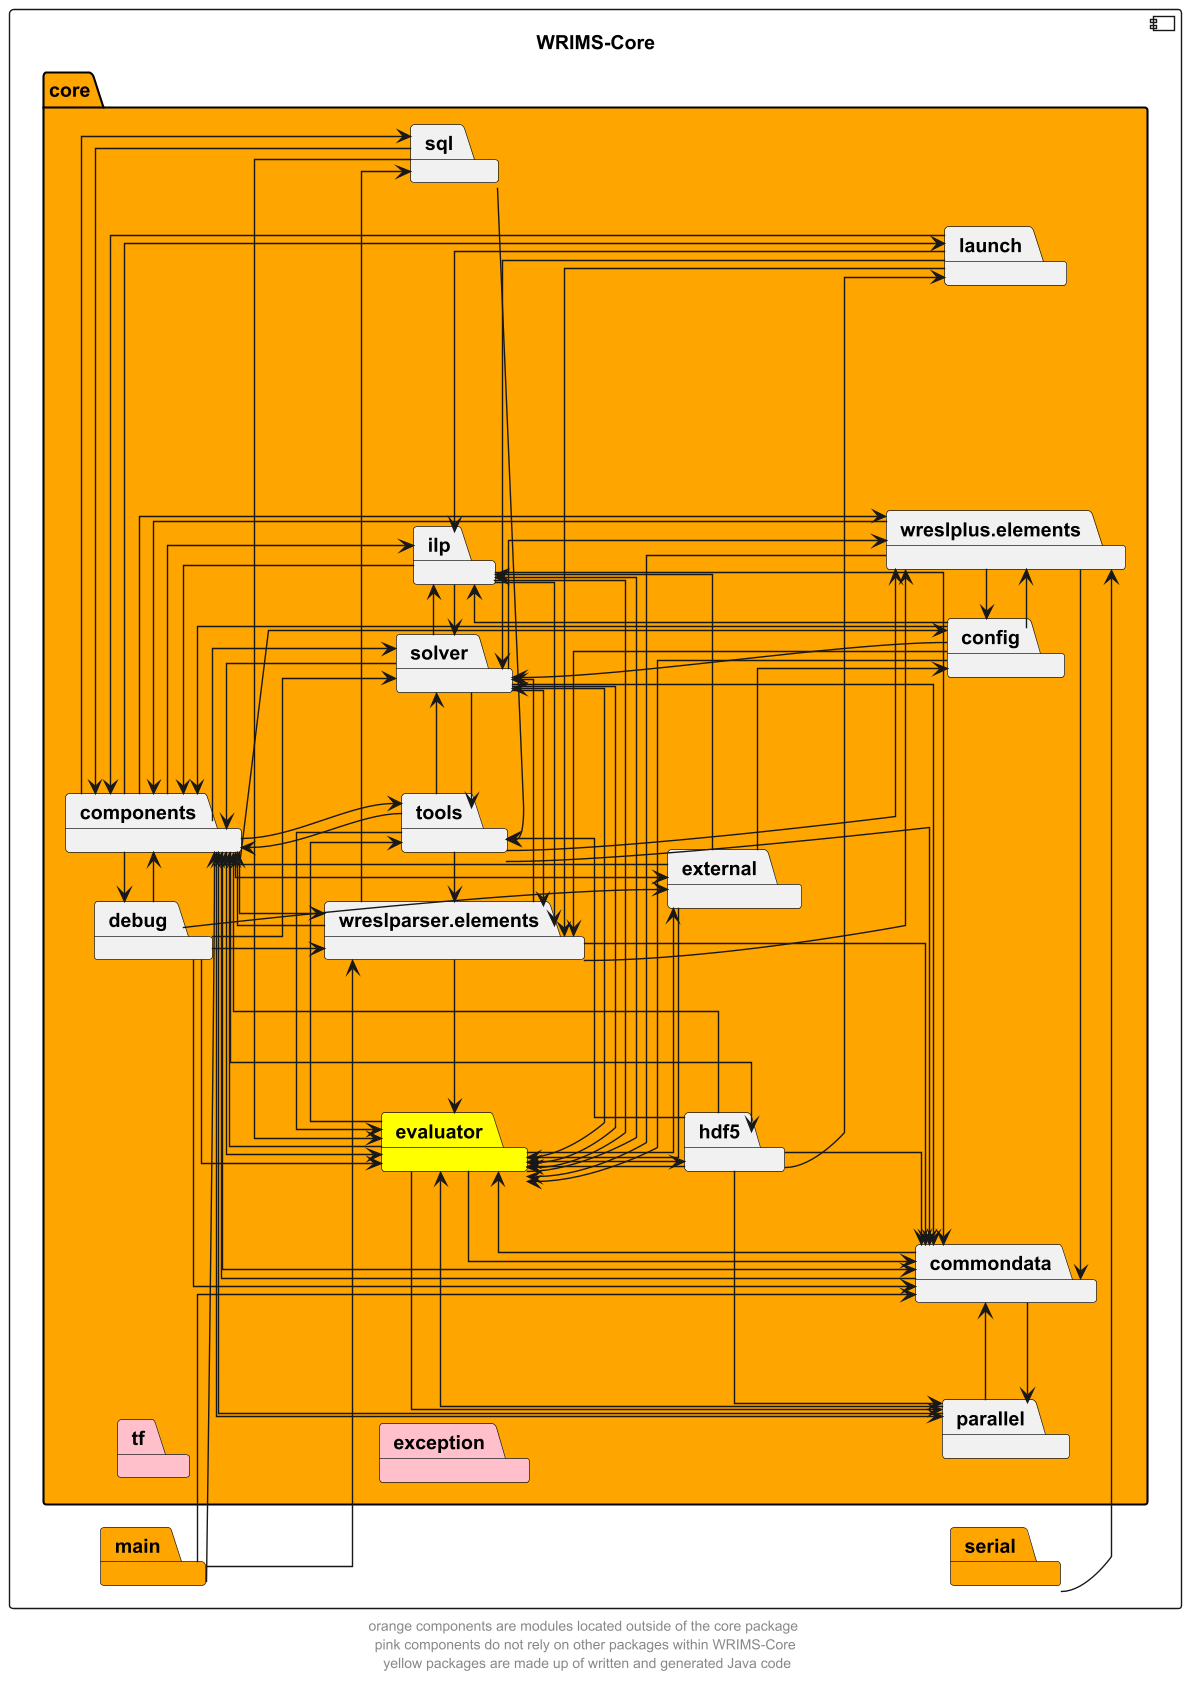
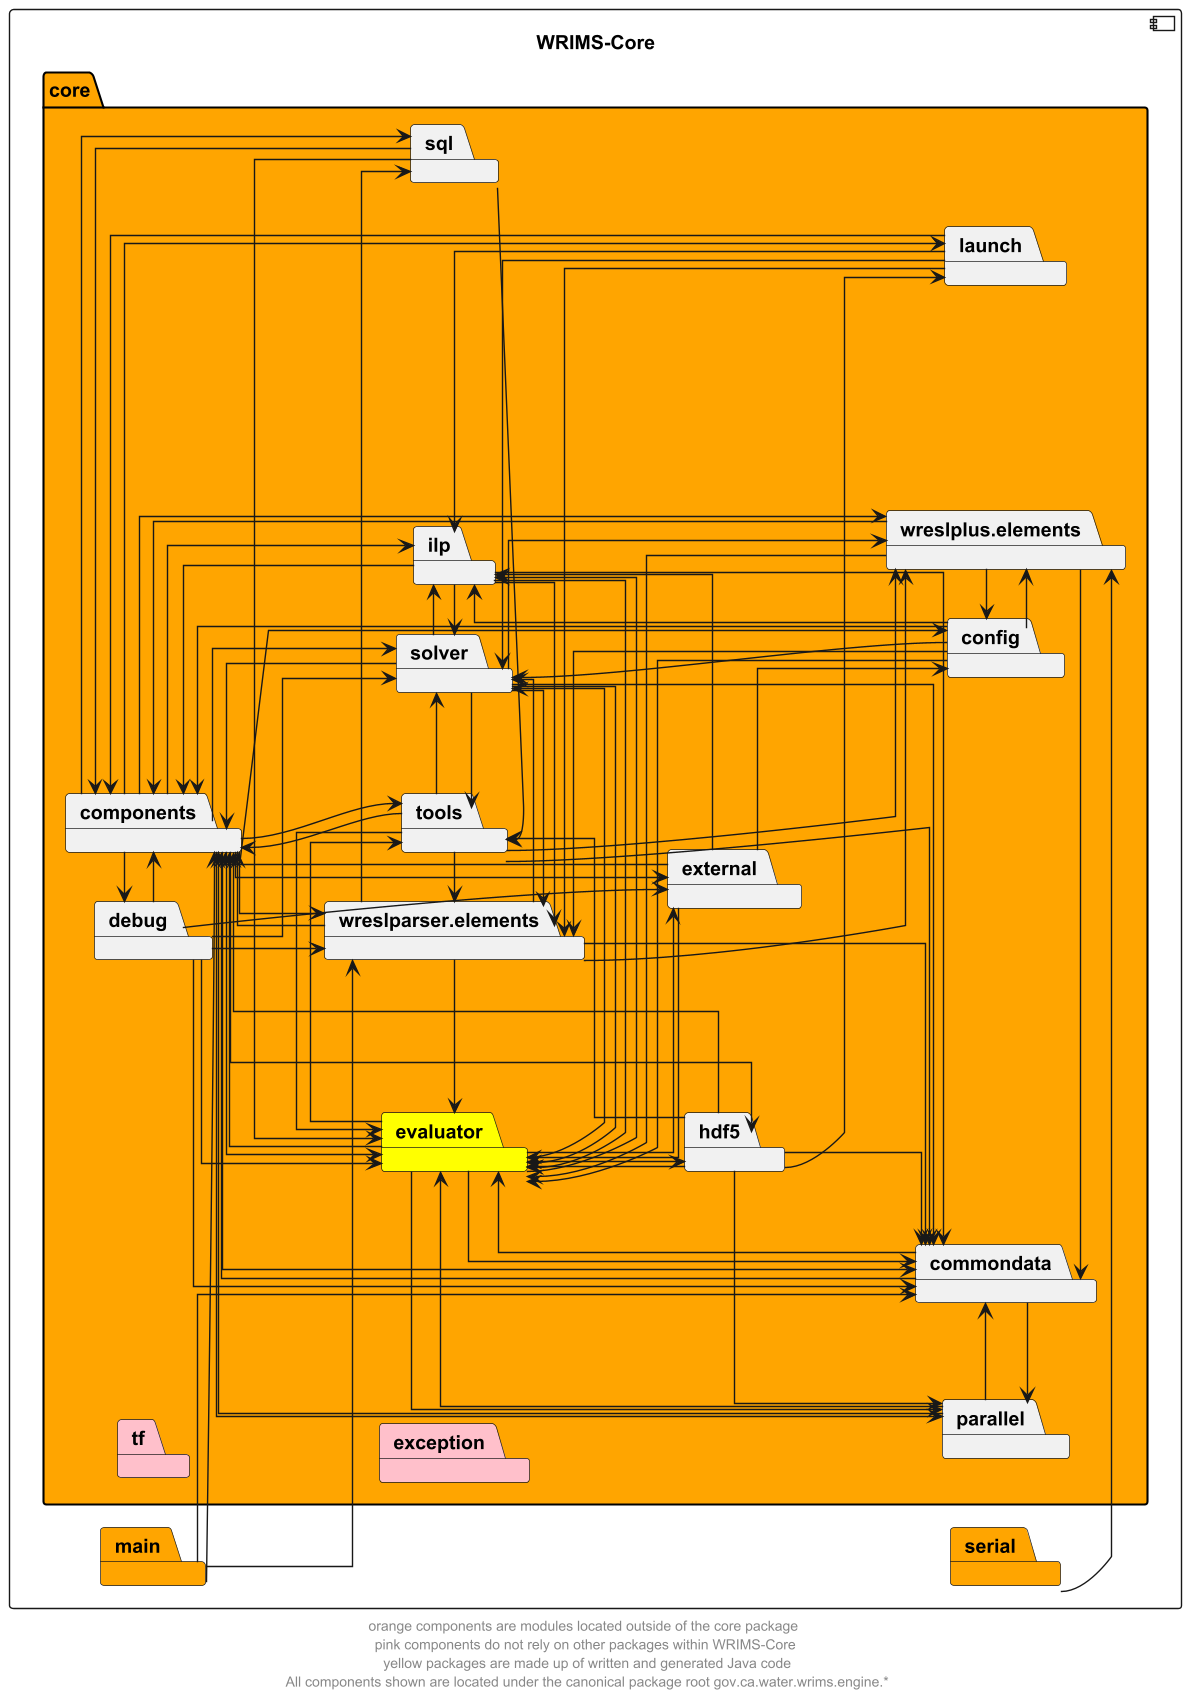
Updated facade comments. Updated diagram package description. Updated README with facade reasoning.

diff --git a/wrims-core/src/main/java/wrimsv2/external/LoadDll.java b/wrims-core/src/main/java/wrimsv2/external/LoadDll.java
@@ -1,9 +1,12 @@
 package wrimsv2.external;
 
 
-@Deprecated
+/**
+ * @deprecated Retained for compatibility with CalLite code
+ * Facade class referring to the implementation within the `gov.ca.water.wrims.engine` package
+ */
+@Deprecated(since = "2025_11_21")
 public class LoadDll extends gov.ca.water.wrims.engine.core.external.LoadDll {
-    // Deprecated for move to new package. Retained old package location for compatibility with CalLight code
     public LoadDll(String s) {
         super(s);
     }

diff --git a/wrims-core/src/main/java/wrimsv2/external/ExternalFunction.java b/wrims-core/src/main/java/wrimsv2/external/ExternalFunction.java
@@ -1,7 +1,10 @@
 package wrimsv2.external;
 
 
-@Deprecated
+/**
+ * @deprecated Retained for compatibility with CalLite code
+ * Facade class referring to the implementation within the `gov.ca.water.wrims.engine` package
+ */
+@Deprecated(since = "2025_11_21")
 public abstract class ExternalFunction extends gov.ca.water.wrims.engine.core.external.ExternalFunction {
-	// Deprecated for move to new package. Retained old package location for compatibility with CalLight code
 }

diff --git a/wrims-core/src/main/java/wrimsv2/evaluator/TimeOperation.java b/wrims-core/src/main/java/wrimsv2/evaluator/TimeOperation.java
@@ -1,7 +1,10 @@
 package wrimsv2.evaluator;
 
 
-@Deprecated
+/**
+ * @deprecated Retained for compatibility with CalLite code
+ * Facade class referring to the implementation within the `gov.ca.water.wrims.engine` package
+ */
+@Deprecated(since = "2025_11_21")
 public class TimeOperation extends gov.ca.water.wrims.engine.core.evaluator.TimeOperation {
-	// Deprecated for move to new package. Retained old package location for compatibility with CalLight code
 }

diff --git a/wrims-core/src/main/java/wrimsv2/components/ControlData.java b/wrims-core/src/main/java/wrimsv2/components/ControlData.java
@@ -1,7 +1,10 @@
 package wrimsv2.components;
 
 
-@Deprecated
+/**
+ * @deprecated Retained for compatibility with CalLite code
+ * Facade class referring to the implementation within the `gov.ca.water.wrims.engine` package
+ */
+@Deprecated(since = "2025_11_21")
 public class ControlData extends gov.ca.water.wrims.engine.core.components.ControlData {
-	// Deprecated for move to new package. Retained old package location for compatibility with CalLight code
 }

diff --git a/wrims-core/src/main/java/wrimsv2/components/TimeUsage.java b/wrims-core/src/main/java/wrimsv2/components/TimeUsage.java
@@ -1,7 +1,10 @@
 package wrimsv2.components;
 
 
-@Deprecated
+/**
+ * @deprecated Retained for compatibility with CalLite code
+ * Facade class referring to the implementation within the `gov.ca.water.wrims.engine` package
+ */
+@Deprecated(since = "2025_11_21")
 public class TimeUsage extends gov.ca.water.wrims.engine.core.components.TimeUsage {
-	// Deprecated for move to new package. Retained old package location for compatibility with CalLight code
 }

diff --git a/wrims-core/src/main/java/wrimsv2/components/FilePaths.java b/wrims-core/src/main/java/wrimsv2/components/FilePaths.java
@@ -1,7 +1,10 @@
 package wrimsv2.components;
 
 
-@Deprecated
+/**
+ * @deprecated Retained for compatibility with CalLite code
+ * Facade class referring to the implementation within the `gov.ca.water.wrims.engine` package
+ */
+@Deprecated(since = "2025_11_21")
 public class FilePaths extends gov.ca.water.wrims.engine.core.components.FilePaths {
-	// Deprecated for move to new package. Retained old package location for compatibility with CalSim code
 }

diff --git a/wrims-core/src/main/java/wrimsv2/components/Error.java b/wrims-core/src/main/java/wrimsv2/components/Error.java
@@ -1,8 +1,11 @@
 package wrimsv2.components;
 
 
-@Deprecated
+/**
+ * @deprecated Retained for compatibility with CalLite code
+ * Facade class referring to the implementation within the `gov.ca.water.wrims.engine` package
+ */
+@Deprecated(since = "2025_11_21")
 public class Error extends gov.ca.water.wrims.engine.core.components.Error {
-    // Deprecated for move to new package. Retained old package location for compatibility with CalLight code
 }
 

diff --git a/wrims-core/src/main/java/wrimsv2/config/ConfigUtils.java b/wrims-core/src/main/java/wrimsv2/config/ConfigUtils.java
@@ -1,7 +1,10 @@
 package wrimsv2.config;
 
 
-@Deprecated
+/**
+ * @deprecated Retained for compatibility with CalLite code
+ * Facade class referring to the implementation within the `gov.ca.water.wrims.engine` package
+ */
+@Deprecated(since = "2025_11_21")
 public class ConfigUtils extends gov.ca.water.wrims.engine.core.config.ConfigUtils {
-	// Deprecated for move to new package. Retained old package location for compatibility with CalLight code
 }

diff --git a/wrims-core/src/main/java/wrimsv2/ilp/ILP.java b/wrims-core/src/main/java/wrimsv2/ilp/ILP.java
@@ -1,7 +1,10 @@
 package wrimsv2.ilp;
 
 
-@Deprecated
+/**
+ * @deprecated Retained for compatibility with CalLite code
+ * Facade class referring to the implementation within the `gov.ca.water.wrims.engine` package
+ */
+@Deprecated(since = "2025_11_21")
 public class ILP extends gov.ca.water.wrims.engine.core.ilp.ILP {
-    // Deprecated for move to new package. Retained old package location for compatibility with CalLight code
 }

diff --git a/wrims-core/src/main/java/wrimsv2/components/VariableTimeStep.java b/wrims-core/src/main/java/wrimsv2/components/VariableTimeStep.java
@@ -1,7 +1,10 @@
 package wrimsv2.components;
 
 
-@Deprecated
+/**
+ * @deprecated Retained for compatibility with CalLite code
+ * Facade class referring to the implementation within the `gov.ca.water.wrims.engine` package
+ */
+@Deprecated(since = "2025_11_21")
 public class VariableTimeStep extends gov.ca.water.wrims.engine.core.components.VariableTimeStep {
-
 }

diff --git a/README.md b/README.md
@@ -166,3 +166,29 @@ To set up SonarQube analysis in your IDE, follow these steps:
 4. **Run Analysis:**
    - You can now run SonarQube analysis directly from your IDE.
    - The plugin will provide real-time feedback on code quality and potential issues as you write code.
+
+---
+
+# Package Naming Changes
+
+## Current Name Changes
+
+The package names for this project were recently changed. 
+
+The group ID was changed from `gov.ca.dwr` to `gov.ca.water` to match the publicly available webpage.
+
+The top-level package name was changed from `wrimsv2` to `wrims.engine` for a fully-qualified name of 
+`gov.ca.water.wrims.engine`. It did not previously include the group ID in the name.
+
+The `wrims` package was renamed to `core` for a fully-qualified name of `gov.ca.water.wrims.engine.core`.
+
+## Legacy CalLite Support and Facade Classes
+
+The current implementation of CalLite uses libraries and native code that is compiled with the package
+name of `wrimsv2.external`. As a result, renaming the native function classes could not be achieved without breaking
+WRIMS compatibility with existing projects and the CalLite code. As a result, the necessary classes have been left
+in the previous package path within this project. The necessary helper classes have been moved to the new package 
+locations, but have had facade classes added to allow for their utilization from the `wrimsv2.external` classes.
+
+This change allows for successful class loading for native code. However, the CalLite library and projects using it
+should eventually be updated to use the new pathing. This includes the ANN DLLs that are used to run the modelling processes.
